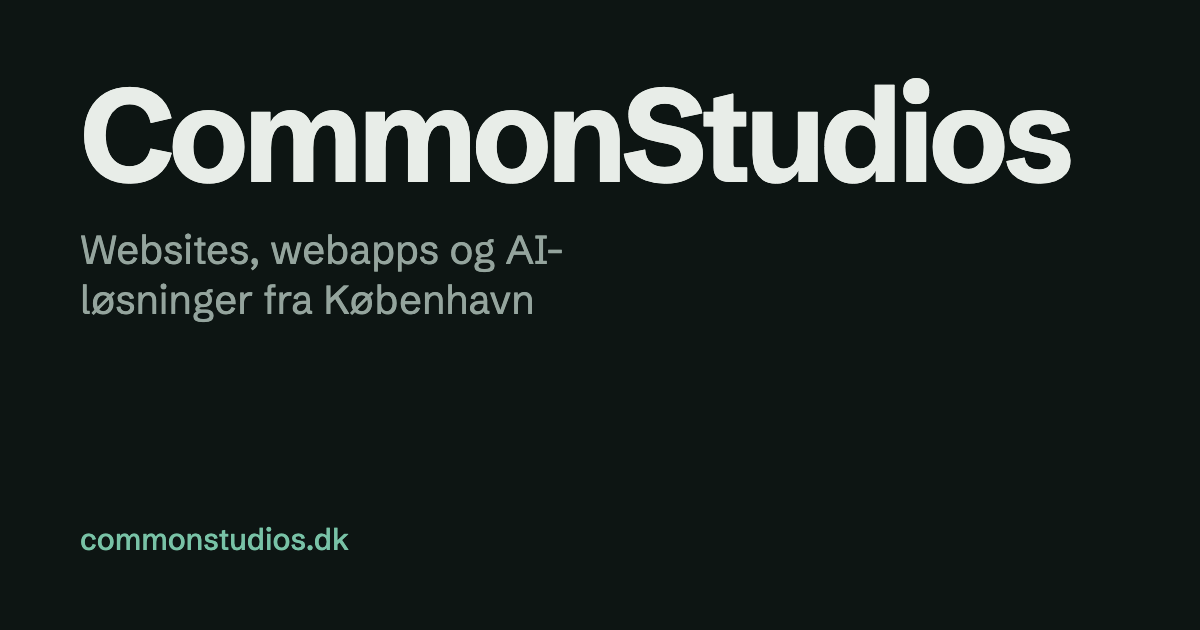
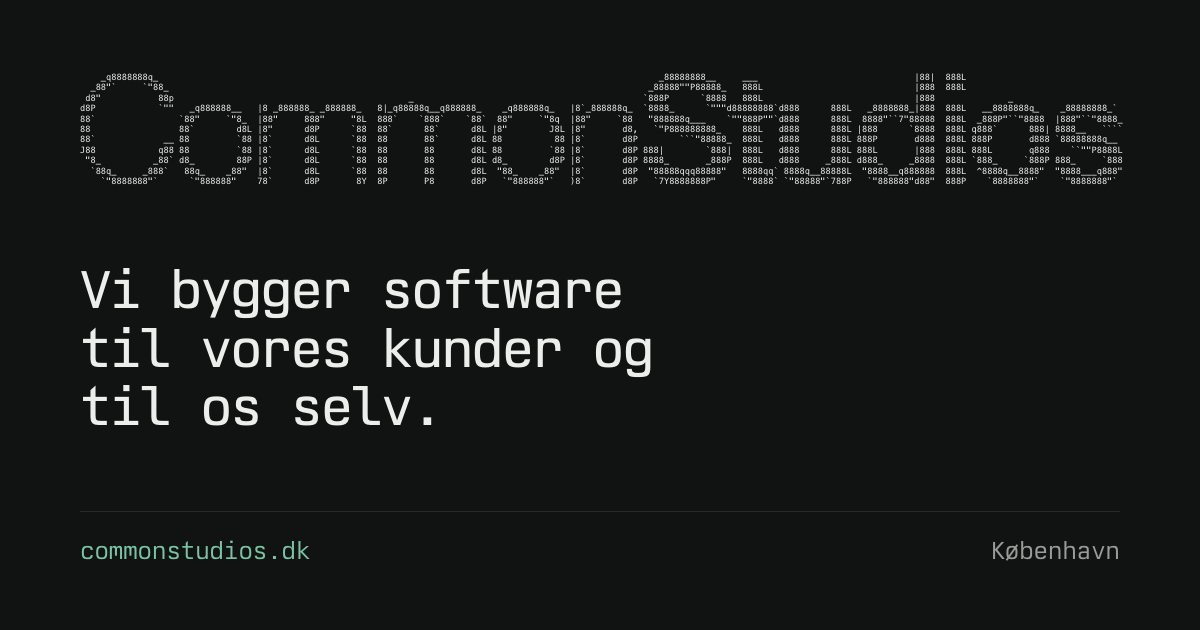
Regenerate the share image in the graphite palette
Add scripts/og-image.py, which renders the 1200x630 card from the site's
palette, Nordwand Mono and the ASCII wordmark with Playwright via npx.

diff --git a/scripts/og-image.py b/scripts/og-image.py
@@ -1,0 +1,87 @@
+"""Render public/images/og-image.png (1200x630), the default social share image.
+
+Builds an HTML card from the site's own palette, Nordwand Mono and the ASCII
+wordmark, then screenshots it with Playwright via npx. Rerun after changing the
+palette, the wordmark or the headline:
+
+    python3 scripts/og-image.py
+"""
+
+import html
+import json
+import subprocess
+import tempfile
+from pathlib import Path
+
+ROOT = Path(__file__).resolve().parent.parent
+OUT = ROOT / "public/images/og-image.png"
+FONTS = ROOT / "src/assets/fonts"
+
+# Keep in sync with :root in src/styles/global.css.
+GROUND = "#111312"
+PAPER = "#eceeec"
+LICHEN = "#979c99"
+PATINA = "#78c2a6"
+SEAM = "#262a28"
+
+HEADLINE = "Vi bygger software til vores kunder og til os selv."
+DOMAIN = "commonstudios.dk"
+PLACE = "København"
+
+
+def font_face(weight: int, name: str) -> str:
+    src = (FONTS / f"NordwandMono-{name}.woff2").as_uri()
+    return (
+        f"@font-face{{font-family:'Nordwand Mono';font-weight:{weight};"
+        f"src:url('{src}') format('woff2')}}"
+    )
+
+
+def build_html() -> str:
+    art = json.loads((ROOT / "src/assets/commonstudios-wordmark.json").read_text())
+    lines = art["wide"]
+    cols = max(len(line) for line in lines)
+    return f"""<!doctype html><meta charset="utf-8"><style>
+{font_face(400, "Regular")}{font_face(500, "Medium")}
+* {{ margin: 0; box-sizing: border-box; }}
+body {{
+  width: 1200px; height: 630px; padding: 72px 80px 64px;
+  display: flex; flex-direction: column; justify-content: space-between;
+  background: {GROUND}; color: {PAPER}; font-family: 'Nordwand Mono', monospace;
+  -webkit-font-smoothing: antialiased;
+}}
+pre {{
+  /* Same sizing rule as AsciiLogo.astro: monospace glyphs are ~0.6em wide. */
+  font: calc(1040px / ({cols} * 0.6)) / 1.2 Menlo, ui-monospace, monospace;
+  letter-spacing: 0; white-space: pre;
+}}
+h1 {{ max-width: 20ch; font-size: 52px; font-weight: 500; line-height: 1.12; letter-spacing: -0.02em; }}
+footer {{
+  display: flex; justify-content: space-between; padding-top: 22px;
+  border-top: 1px solid {SEAM}; font-size: 24px; color: {LICHEN};
+}}
+footer span:first-child {{ color: {PATINA}; }}
+</style>
+<pre>{html.escape(chr(10).join(lines))}</pre>
+<h1>{html.escape(HEADLINE)}</h1>
+<footer><span>{DOMAIN}</span><span>{PLACE}</span></footer>
+"""
+
+
+def main() -> None:
+    with tempfile.TemporaryDirectory() as tmp:
+        page = Path(tmp) / "og.html"
+        page.write_text(build_html(), encoding="utf-8")
+        subprocess.run(
+            [
+                "npx", "-y", "playwright", "screenshot",
+                "--viewport-size=1200,630", "--wait-for-timeout=500",
+                page.as_uri(), str(OUT),
+            ],
+            check=True,
+        )
+    print(f"Wrote {OUT.relative_to(ROOT)}")
+
+
+if __name__ == "__main__":
+    main()
